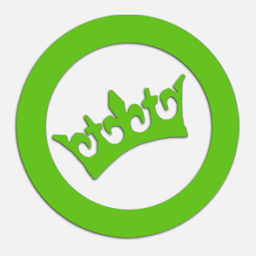
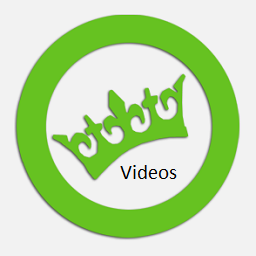
v1.1.6-SNAPSHOT (2018-02-18)
- added 'videos' to icon

Changed region(s): [[0.4688, 0.625, 0.6875, 0.7188]]

diff --git a/resources/lib/dumpert_const.py b/resources/lib/dumpert_const.py
@@ -14,8 +14,8 @@ ADDON = "plugin.video.dumpert"
 SETTINGS = xbmcaddon.Addon(id=ADDON)
 LANGUAGE = SETTINGS.getLocalizedString
 IMAGES_PATH = os.path.join(xbmcaddon.Addon(id=ADDON).getAddonInfo('path'), 'resources', 'images')
-DATE = "2018-01-20"
-VERSION = "1.1.5"
+DATE = "2018-02-18"
+VERSION = "1.1.6-SNAPHOST"
 
 
 if sys.version_info[0] > 2:
